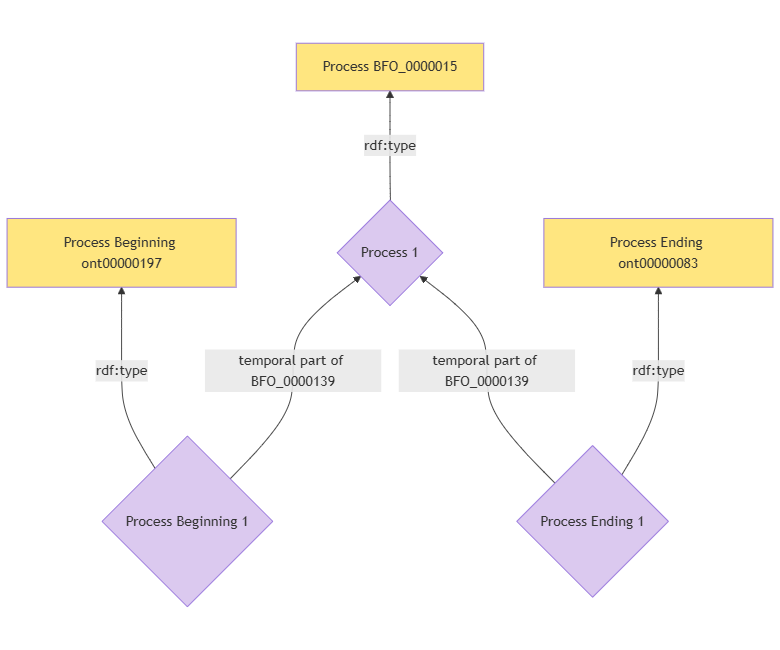
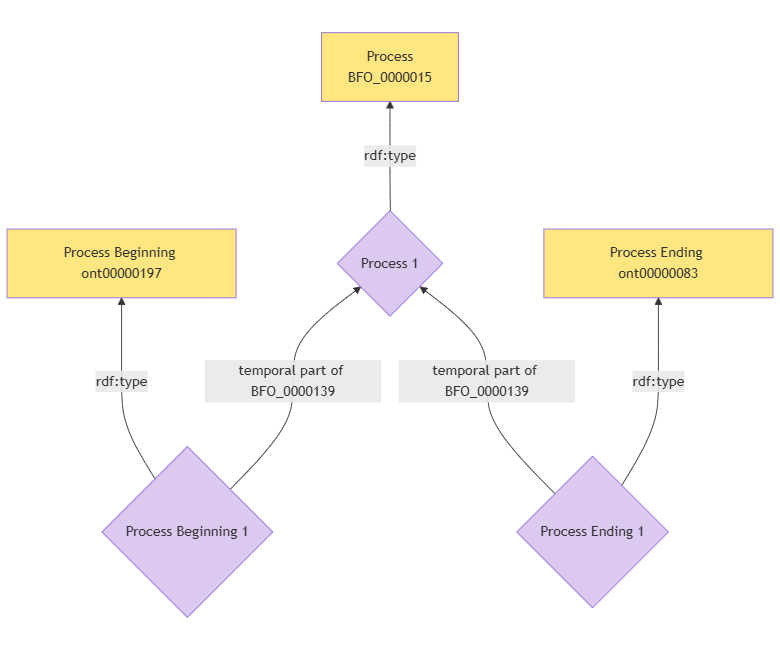
Made changes to files to address minor issue with design pattern

diff --git a/design-patterns/time/CCO DP, p. 55.md b/design-patterns/time/CCO DP, p. 55.md
@@ -1,7 +1,8 @@
 graph BT
     A{Process Beginning 1} --->|rdf:type| B[Process Beginning ont00000197]
     A --->|temporal part of BFO_0000139| C{Process 1}
-    C --->|rdf:type| E[Process BFO_0000015]
+    C --->|rdf:type| E[Process 
+    BFO_0000015]
     D{Process Ending 1}--->|rdf:type| F[Process Ending ont00000083]
     D--->|temporal part of BFO_0000139| C
 
